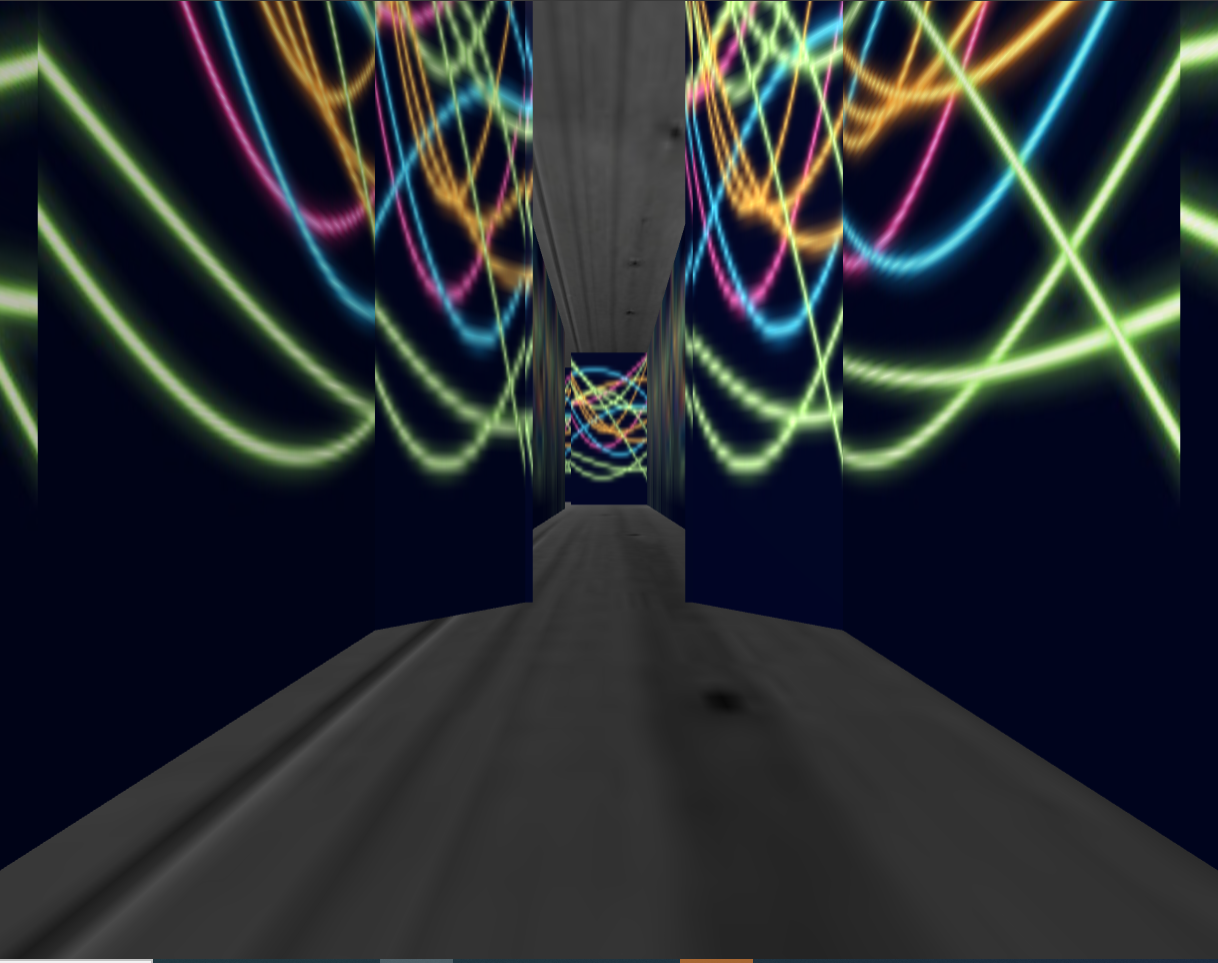
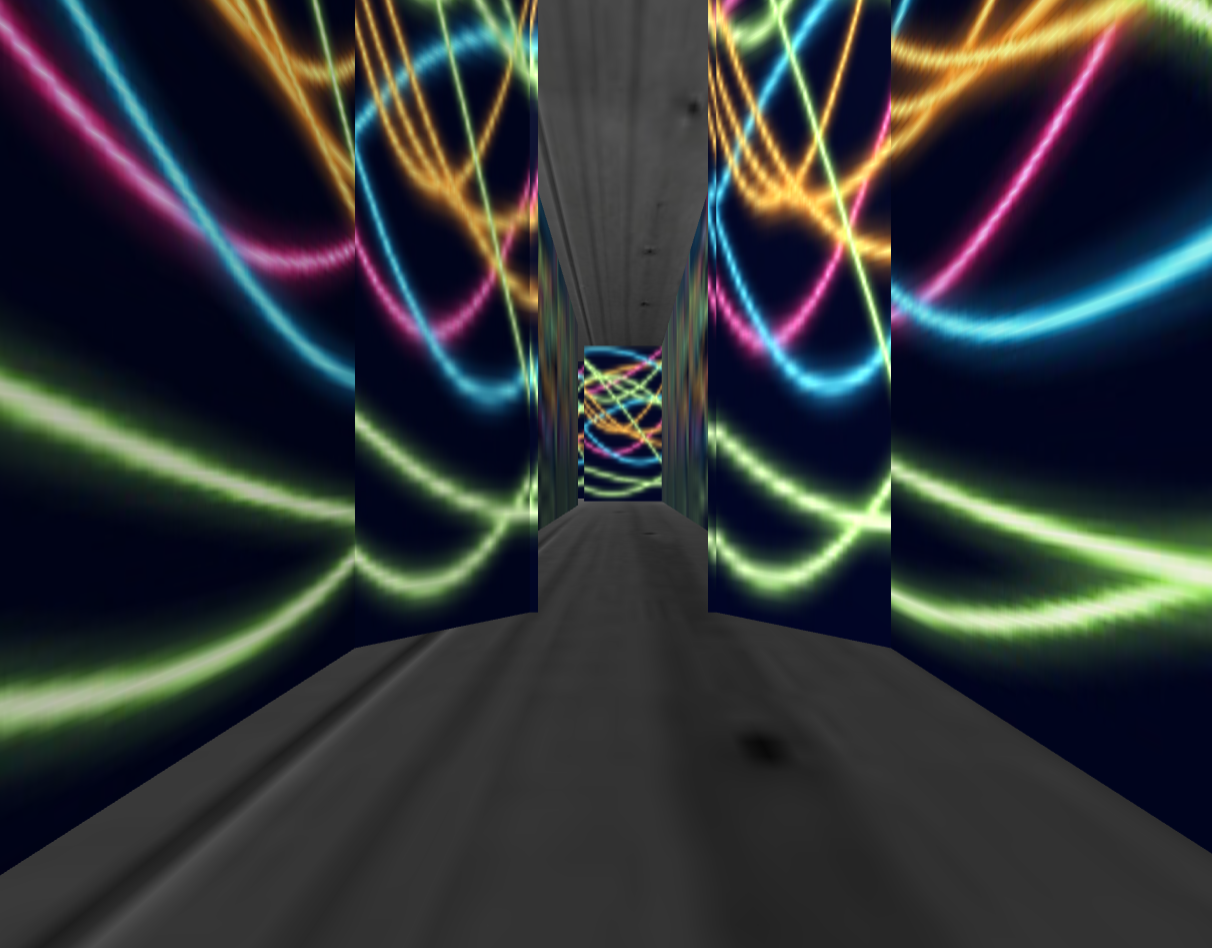
preperation for a risky test

diff --git a/VR.html b/VR.html
@@ -155,10 +155,61 @@
     <a-plane id="startRightRightLeftCorner2" position="7.5 5 0" rotation="0 -90 0" width="5" height="10" src="neonlines.jpg"></a-plane>
     <a-plane id="startRightRightLeftCornerOpp1" position="10 5 2.5" rotation="0 0 0" width="5" height="10" src="neonlines.jpg"></a-plane>
     <a-plane id="startRightRightLeftCornerOpp2" position="10 5 2.5" rotation="180 0 0" width="5" height="10" src="neonlines.jpg"></a-plane>
-    <a-plane id="startRightRightLeftStraightLeftwall1" position="15 5 7.5" rotation="0 0 0" width="5" height="10" src="neonlines.jpg"></a-plane>
-    <a-plane id="startRightRightLeftStraightLeftwall2" position="15 5 7.5" rotation="180 0 0" width="5" height="10" src="neonlines.jpg"></a-plane>
+    <a-plane id="startRightRightLeftStraightLeftwall1" position="15 5 -2.5" rotation="0 0 0" width="5" height="10" src="neonlines.jpg"></a-plane>
+    <a-plane id="startRightRightLeftStraightLeftwall2" position="15 5 -2.5" rotation="180 0 0" width="5" height="10" src="neonlines.jpg"></a-plane>
+    <a-plane id="startRightRightLeftStraightCorner1" position="20 5 2.5" rotation="0 0 0" width="5" height="10" src="neonlines.jpg"></a-plane>
+    <a-plane id="startRightRightLeftStraightCorner2" position="20 5 2.5" rotation="180 0 0" width="5" height="10" src="neonlines.jpg"></a-plane>
+    <a-plane id="startRightRightLeftStraightCornerOpp1" position="22.5 5 0" rotation="0 90 0" width="5" height="10" src="neonlines.jpg"></a-plane>
+    <a-plane id="startRightRightLeftStraightCornerOpp2" position="22.5 5 0" rotation="0 -90 0" width="5" height="10" src="neonlines.jpg"></a-plane>
+    <a-plane id="startRightRightLeftStraightDeadendWall1" position="17.5 5 -5" rotation="0 90 0" width="5" height="10" src="neonlines.jpg"></a-plane>
+    <a-plane id="startRightRightLeftStraightDeadendWall2" position="17.5 5 -5" rotation="0 -90 0" width="5" height="10" src="neonlines.jpg"></a-plane>
+    <a-plane id="startRightRightLeftStraightDeadendWallOpp1" position="22.5 5 -5" rotation="0 90 0" width="5" height="10" src="neonlines.jpg"></a-plane>
+    <a-plane id="startRightRightLeftStraightDeadendWallOpp2" position="22.5 5 -5" rotation="0 -90 0" width="5" height="10" src="neonlines.jpg"></a-plane>
+    <a-plane id="startRightRightLeftStraightDeadendWallBlock1" position="20 5 -7.5" rotation="0 0 0" width="5" height="10" src="neonlines.jpg"></a-plane>
+    <a-plane id="startRightRightLeftStraightDeadendWallBlock2" position="20 5 -7.5" rotation="180 0 0" width="5" height="10" src="neonlines.jpg"></a-plane>
+    
     <a-plane id="startRightRightLeftRightBackwall1" position="12.5 5 5" rotation="0 90 0" width="5" height="10" src="neonlines.jpg"></a-plane>
     <a-plane id="startRightRightLeftRightBackwall2" position="12.5 5 5" rotation="0 -90 0" width="5" height="10" src="neonlines.jpg"></a-plane>
+    <a-plane id="startRightRightLeftRightSidewall1" position="15 5 7.5" rotation="0 0 0" width="5" height="10" src="neonlines.jpg"></a-plane>
+    <a-plane id="startRightRightLeftRightSidewall2" position="15 5 7.5" rotation="180 0 0" width="5" height="10" src="neonlines.jpg"></a-plane>
+    <a-plane id="startRightRightLeftRightSecSidewall1" position="20 5 7.5" rotation="0 0 0" width="5" height="10" src="neonlines.jpg"></a-plane>
+    <a-plane id="startRightRightLeftRightSecSidewall2" position="20 5 7.5" rotation="180 0 0" width="5" height="10" src="neonlines.jpg"></a-plane>
+    <a-plane id="startRightRightLeftRightThirdSidewall1" position="25 5 7.5" rotation="0 0 0" width="5" height="10" src="neonlines.jpg"></a-plane>
+    <a-plane id="startRightRightLeftRightThirdSidewall2" position="25 5 7.5" rotation="180 0 0" width="5" height="10" src="neonlines.jpg"></a-plane>
+    <a-plane id="startRightRightLeftRightIntercept1" position="27.5 5 5" rotation="0 90 0" width="5" height="10" src="neonlines.jpg"></a-plane>
+    <a-plane id="startRightRightLeftRightIntercept2" position="27.5 5 5" rotation="0 -90 0" width="5" height="10" src="neonlines.jpg"></a-plane>
+    
+    <a-plane id="startRightRightLeftRightStraightWall1" position="27.5 5 -5" rotation="0 90 0" width="5" height="10" src="neonlines.jpg"></a-plane>
+    <a-plane id="startRightRightLeftRightStraightWall2" position="27.5 5 -5" rotation="0 -90 0" width="5" height="10" src="neonlines.jpg"></a-plane>
+    <a-plane id="startRightRightLeftRightStraightRightLeftwall1" position="30 5 -12.5" rotation="0 0 0" width="5" height="10" src="neonlines.jpg"></a-plane>
+    <a-plane id="startRightRightLeftRightStraightRightLeftwall2" position="30 5 -12.5" rotation="180 0 0" width="5" height="10" src="neonlines.jpg"></a-plane>
+    
+    <a-plane id="startRightRightLeftRightStraightRightBlock1" position="32.5 5 -10" rotation="0 90 0" width="5" height="10" src="neonlines.jpg"></a-plane>
+    <a-plane id="startRightRightLeftRightStraightRightBlock2" position="32.5 5 -10" rotation="0 -90 0" width="5" height="10" src="neonlines.jpg"></a-plane>
+    <a-plane id="startRightRightLeftRightStraightRightSecBlock1" position="37.5 5 -5" rotation="0 90 0" width="5" height="10" src="neonlines.jpg"></a-plane>
+    <a-plane id="startRightRightLeftRightStraightRightSecBlock2" position="37.5 5 -5" rotation="0 -90 0" width="5" height="10" src="neonlines.jpg"></a-plane>
+    <a-plane id="startRightRightLeftRightStraightRightDeadendRightwall1" position="37.5 5 -10" rotation="0 90 0" width="5" height="10" src="neonlines.jpg"></a-plane>
+    <a-plane id="startRightRightLeftRightStraightRightDeadendRightwall2" position="37.5 5 -10" rotation="0 -90 0" width="5" height="10" src="neonlines.jpg"></a-plane>
+    <a-plane id="startRightRightLeftRightStraightRightDeadendMidwall1" position="35 5 -12.5" rotation="0 0 0" width="5" height="10" src="neonlines.jpg"></a-plane>
+    <a-plane id="startRightRightLeftRightStraightRightDeadendMidwall2" position="35 5 -12.5" rotation="180 0 0" width="5" height="10" src="neonlines.jpg"></a-plane>
+    
+    <a-plane id="startRightRightLeftRightStraightBlock1" position="25 5 -12.5" rotation="0 0 0" width="5" height="10" src="neonlines.jpg"></a-plane>
+    <a-plane id="startRightRightLeftRightStraightBlock2" position="25 5 -12.5" rotation="180 0 0" width="5" height="10" src="neonlines.jpg"></a-plane>
+
+    <a-plane id="startRightRightLeftRightRightWall1" position="30 5 2.5" rotation="0 0 0" width="5" height="10" src="neonlines.jpg"></a-plane>
+    <a-plane id="startRightRightLeftRightRightWall2" position="30 5 2.5" rotation="180 0 0" width="5" height="10" src="neonlines.jpg"></a-plane>
+    <a-plane id="startRightRightLeftRightRightLeftwall1" position="30 5 -2.5" rotation="0 0 0" width="5" height="10" src="neonlines.jpg"></a-plane>
+    <a-plane id="startRightRightLeftRightRightLeftwall2" position="30 5 -2.5" rotation="180 0 0" width="5" height="10" src="neonlines.jpg"></a-plane>
+    <a-plane id="startRightRightLeftRightRightCorner1" position="35 5 -2.5" rotation="0 0 0" width="5" height="10" src="neonlines.jpg"></a-plane>
+    <a-plane id="startRightRightLeftRightRightCorner2" position="35 5 -2.5" rotation="180 0 0" width="5" height="10" src="neonlines.jpg"></a-plane>
+    <a-plane id="startRightRightLeftRightRightCornerOpp1" position="37.5 5 0" rotation="0 90 0" width="5" height="10" src="neonlines.jpg"></a-plane>
+    <a-plane id="startRightRightLeftRightRightCornerOpp2" position="37.5 5 0" rotation="0 -90 0" width="5" height="10" src="neonlines.jpg"></a-plane>
+    <a-plane id="startRightRightLeftRightRightAdjCorner1" position="37.5 5 5" rotation="0 90 0" width="5" height="10" src="neonlines.jpg"></a-plane>
+    <a-plane id="startRightRightLeftRightRightAdjCorner2" position="37.5 5 5" rotation="0 -90 0" width="5" height="10" src="neonlines.jpg"></a-plane>
+    <a-plane id="startRightRightLeftRightRightAdjCornerOpp1" position="35 5 7.5" rotation="0 0 0" width="5" height="10" src="neonlines.jpg"></a-plane>
+    <a-plane id="startRightRightLeftRightRightAdjCornerOpp2" position="35 5 7.5" rotation="180 0 0" width="5" height="10" src="neonlines.jpg"></a-plane>
+    <a-plane id="startRightRightLeftRightRightDeadendWall1" position="30 5 7.5" rotation="0 0 0" width="5" height="10" src="neonlines.jpg"></a-plane>
+    <a-plane id="startRightRightLeftRightRightDeadendWall2" position="30 5 7.5" rotation="180 0 0" width="5" height="10" src="neonlines.jpg"></a-plane>
 
     
     <a-plane id="startRightLeftWall1" position="12.5 5 -25" rotation="0 90 0" width="5" height="10" src="neonlines.jpg"></a-plane>

diff --git a/style.css b/style.css
@@ -8,14 +8,14 @@ body {
 }
 
 h1 {
-  font-size: 60px;
+  font-size: 80px;
   color: magenta;
   margin: 18px;
 }
 
 h3 {
   color: lime;
-  font-size: 50px;
+  font-size: 70px;
   margin: 20px
 }
 
@@ -72,7 +72,7 @@ h3 {
 
  .landing-body {
    background-image: url("maze-entrance.png");
-   height: 500px;
+   height: auto;
    border: 2px solid black
  }
 
